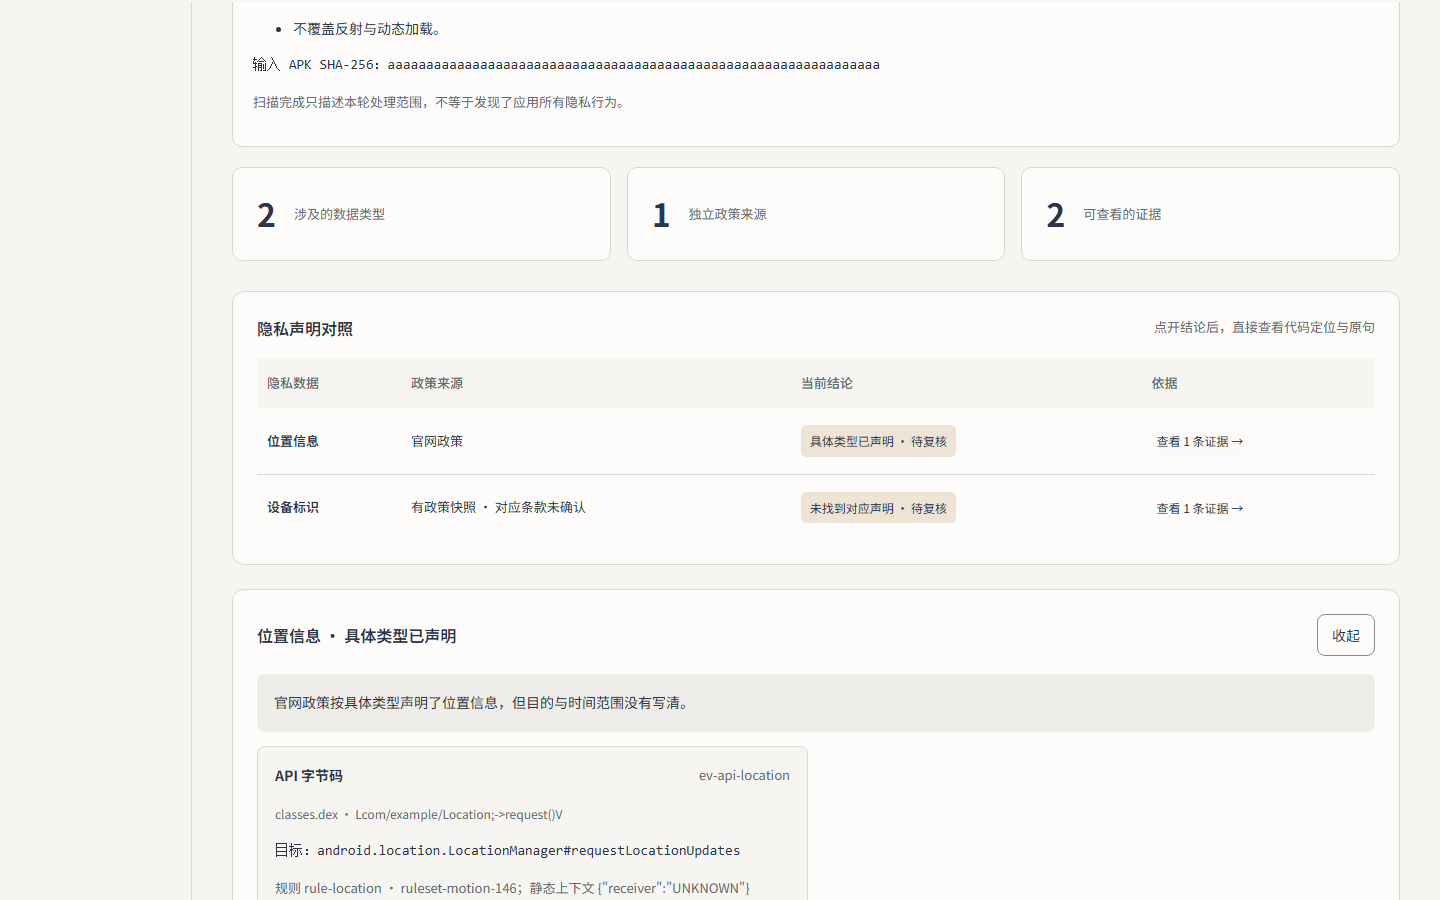
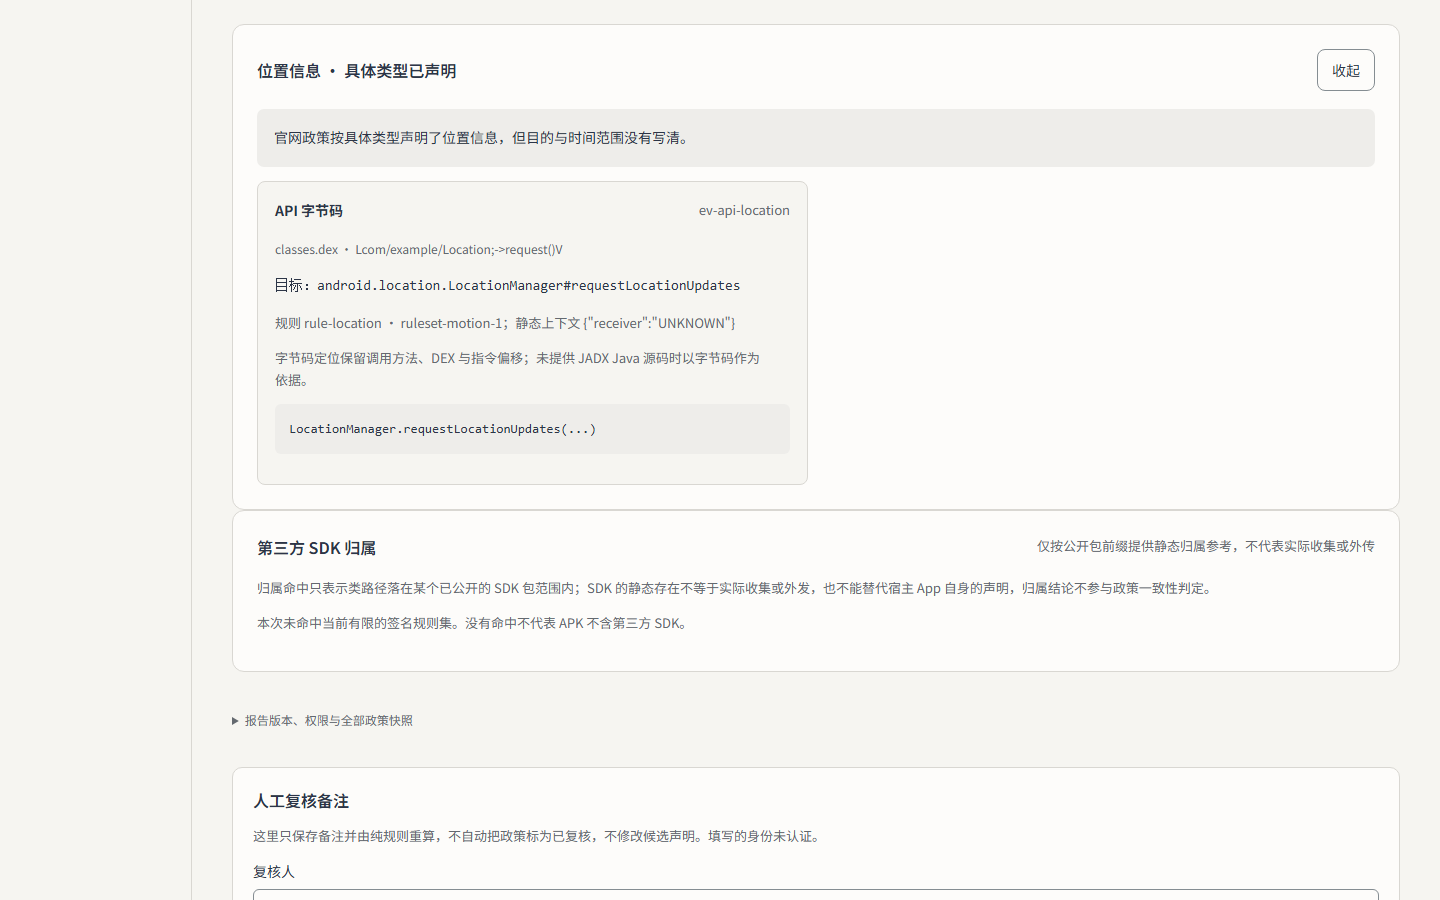
fix(web): 修正按下态被 hover 覆盖，并补齐 #146 验收证据
- hover 能力块移到各 variant 的 :active 之前：同权重下按下态必须压过 hover，
  否则危险按钮按下时文字与底色同为 --error
- .drag-active 保留 border-style: solid，维持原来的 2px 实心描边观感
- 验收补 3 项：危险按钮按下压过 hover（含守卫反证）、10 KB 长文本渲染、
  展开单元格横向裁切；时长断言改为读取 --motion-color token
- 报告页截图改为滚动稳定后取帧，before/after 可直接逐像素比较

diff --git a/apps/web/src/workbench.css b/apps/web/src/workbench.css
@@ -59,8 +59,10 @@ p { line-height: 1.7; }
 .file-glyph { display: grid; place-items: center; gap: 4px; color: var(--muted); font-size: 0.75rem; }
 .file-glyph .ui-icon { width: 32px; height: 32px; }
 /* Drop target highlight without a 1px border-width change: widening the border
-   reflowed the panel and shifted the label by a pixel every dragenter/dragleave. */
-.drag-active { border-color: var(--navy); background: var(--slate); box-shadow: inset 0 0 0 1px var(--navy); }
+   reflowed the panel and shifted the label by a pixel every dragenter/dragleave.
+   The border stays 1px solid navy and the inset shadow supplies the second pixel,
+   so the highlight keeps its previous 2px solid look. */
+.drag-active { border-color: var(--navy); border-style: solid; background: var(--slate); box-shadow: inset 0 0 0 1px var(--navy); }
 .example-entry { border-top: 1px solid var(--border); margin-top: 24px; padding-top: 24px; }
 .field-help { color: var(--muted); font-size: 0.75rem; line-height: 20px; margin: 8px 0; }
 .source-editor { padding: 24px 0; border-top: 1px solid var(--border); }
@@ -92,6 +94,16 @@ p { line-height: 1.7; }
    evidence links all fade at the same speed. The press offset stays untransitioned
    so the pressed state is visible in the same frame as the pointer event. */
 button { transition: background-color var(--motion-color) var(--ease-color), border-color var(--motion-color) var(--ease-color); }
+/* Pointer-only hover: a touch tap reports :hover, so ungated rules leave a stuck
+   highlight on the row the finger just touched. Keyboards use :focus-visible.
+   Kept before the :active rules below: hover and :active share specificity for the
+   danger role, so source order decides which one wins while a button is held. */
+@media (hover: hover) and (pointer: fine) {
+  button:hover { background: var(--surface-muted); }
+  .ui-button.primary:hover:not(:disabled) { background: var(--navy-hover); }
+  .ui-button.quiet:hover { background: var(--surface-muted); }
+  .ui-button.danger:hover:not(:disabled) { background: var(--error); }
+}
 .ui-button:active:not(:disabled) { transform: translateY(1px); }
 .ui-button.primary { color: var(--surface); background: var(--navy); border-color: var(--navy); }
 .ui-button.primary:active:not(:disabled) { background: var(--navy-hover); opacity: .88; }
@@ -99,14 +111,6 @@ button { transition: background-color var(--motion-color) var(--ease-color), bor
 .ui-button.danger { background: var(--danger); border-color: var(--danger); color: var(--on-action); }
 .ui-button.danger:active:not(:disabled) { background: var(--rose); color: var(--error); }
 .ui-button:disabled { color: var(--muted); background: var(--surface-muted); border-color: var(--surface-muted); opacity: 1; }
-/* Pointer-only hover: a touch tap reports :hover, so ungated rules leave a stuck
-   highlight on the row the finger just touched. Keyboards use :focus-visible. */
-@media (hover: hover) and (pointer: fine) {
-  button:hover { background: var(--surface-muted); }
-  .ui-button.primary:hover:not(:disabled) { background: var(--navy-hover); }
-  .ui-button.quiet:hover { background: var(--surface-muted); }
-  .ui-button.danger:hover:not(:disabled) { background: var(--error); }
-}
 .status-tag { display: inline-flex; align-items: center; flex-shrink: 0; border-radius: var(--radius); background: var(--surface-muted); color: var(--ink); padding: var(--space-4) var(--space-8); font-size: 0.75rem; line-height: 20px; font-weight: 500; }
 .status-tag.info { background: var(--slate); }
 .status-tag.wait { background: var(--notice); }

diff --git a/docs/acceptance/issue146/README.md b/docs/acceptance/issue146/README.md
@@ -10,7 +10,7 @@
 
 | 命令 | 结果 |
 | --- | --- |
-| `node scripts/verify-issue146-motion.cjs`（`PRIVACYTRACE_FRONTEND_URL=http://127.0.0.1:5196`） | PASS，17 项检查，见 [`verification.json`](verification.json) |
+| `node scripts/verify-issue146-motion.cjs`（`PRIVACYTRACE_FRONTEND_URL=http://127.0.0.1:5196`） | PASS，20 项检查（含 3 条守卫反证），见 [`verification.json`](verification.json) |
 | `pwsh -NoProfile -File scripts/check.ps1` | 见本次提交的 PR 正文；脚本内容未改动 |
 | `npm run acceptance:frontend` | 见本次提交的 PR 正文 |
 
@@ -19,29 +19,30 @@
 ## 定向检查覆盖
 
 1. 指针能力：桌面命中 `(hover: hover) and (pointer: fine)`；触摸上下文不命中，且不再出现粘滞 hover。
-2. 反馈节奏：hover 保持 150ms 颜色过渡，属性仅 `background-color, border-color`；按下位移 `translateY(1px)` 与指针事件同帧、不参与过渡。
-3. 拖拽高亮：`dragenter`/`dragleave` 前后拖拽区高度与内部标签位置不变（0px 位移），高亮靠 `inset box-shadow` 表达。
+2. 反馈节奏：hover 使用共用的 `--motion-color`（150ms）颜色过渡，属性仅 `background-color, border-color`；按下位移 `translateY(1px)` 与指针事件同帧、不参与过渡；按下态必须压过 hover（危险按钮按下为 `--rose` 底 + `--error` 字）。
+3. 拖拽高亮：`dragenter`/`dragleave` 前后拖拽区高度与内部标签位置不变（0px 位移），高亮由 1px 实心边框 + 1px `inset box-shadow` 组成。
 4. 弹窗：设置弹窗显式打开后同帧可读（`opacity: 1`，无入场动画）。
 5. 预算守卫：页面内不存在 `transition: all`、不存在超过 300ms 的活动过渡、空闲时无运行中的动画；注入 `transition: all 400ms` 后守卫必须报错。
 6. 普通模式：证据面板滚动 `behavior: 'smooth'`，面板内容在滚动完成前已可读。
 7. 减少动效模式：滚动 `behavior: 'auto'`，全局过渡为 `0s`，无运行中动画。
-8. 连续操作：两种模式下各 9 次快速开关，最终落在关闭状态，无重复面板、无重复报告请求。
-9. 低性能：CDP 6× CPU 节流下证据面板在 105–136ms 内以完全不透明呈现。
-10. 后台恢复：`visibilitychange` 隐藏/可见往返后，面板仍在且完全可读，动画未重启。
-11. 窄屏证据行：就地展开，无入场动画，首帧 `opacity: 1`，收起后不残留空单元格。
+8. 连续操作：每种模式 3 轮「开第一行 → 开第二行 → 收起」（共 9 次点击、3 次收起），最终落在关闭状态，无重复面板、无重复报告请求。
+9. 低性能：CDP 6× CPU 节流下证据面板仍以完全不透明呈现，实测耗时见 [`verification.json`](verification.json)。
+10. 后台恢复：`visibilitychange` 隐藏/可见往返后，面板仍在、内容不空、完全可读，动画未重启，报告请求数不变（DOM 级模拟，不是系统挂起）。
+11. 长文本：展开报告来源里的 10 KB 政策正文，文档不产生横向溢出，`<pre>` 在自己的块内换行而不横向滚动。
+12. 窄屏证据行：就地展开，无入场动画，首帧 `opacity: 1`；展开单元格与内部代码块都不横向裁切；收起后不残留空单元格。
 
 ## 证据文件
 
 | 文件 | 说明 |
 | --- | --- |
-| [`evidence/before-import-drag-active-1440.png`](evidence/before-import-drag-active-1440.png) / [`evidence/after-import-drag-active-1440.png`](evidence/after-import-drag-active-1440.png) | 拖拽高亮前后：视觉一致，几何变化在下方实测里 |
-| [`evidence/before-inline-evidence-390.png`](evidence/before-inline-evidence-390.png) / [`evidence/after-inline-evidence-390.png`](evidence/after-inline-evidence-390.png) | 窄屏证据行前后：静态视觉一致，差异是入场阶段是否 `opacity: 0` |
-| [`evidence/before-reports-evidence-1440.png`](evidence/before-reports-evidence-1440.png) / [`evidence/after-reports-evidence-1440.png`](evidence/after-reports-evidence-1440.png) | 「已有报告」证据面板前后：像素级一致，未新增视觉方向 |
+| [`evidence/before-import-drag-active-1440.png`](evidence/before-import-drag-active-1440.png) / [`evidence/after-import-drag-active-1440.png`](evidence/after-import-drag-active-1440.png) | 拖拽高亮前后：仍是一圈 2px 海军蓝描边；旧实现靠把边框从 1px 加宽到 2px 实现（因此会顶动内容），新实现用 1px 边框 + 1px 内阴影，所以**拖拽态内部内容比旧实现多出 1px**（实测差 16,221 px，全部落在拖拽区 304×502 区域内）。这是修掉回流本身的结果，不是新的视觉方向 |
+| [`evidence/before-inline-evidence-390.png`](evidence/before-inline-evidence-390.png) / [`evidence/after-inline-evidence-390.png`](evidence/after-inline-evidence-390.png) | 窄屏证据行前后：**像素级一致**（差 0 px），差异只在入场阶段是否先 `opacity: 0` |
+| [`evidence/before-reports-evidence-1440.png`](evidence/before-reports-evidence-1440.png) / [`evidence/after-reports-evidence-1440.png`](evidence/after-reports-evidence-1440.png) | 「已有报告」证据面板前后：**像素级一致**（差 0 px），未新增视觉方向 |
 | [`evidence/feedback-hover-1440.png`](evidence/feedback-hover-1440.png) | 指针 hover 反馈（颜色过渡中/后） |
 | [`evidence/feedback-pressed-1440.png`](evidence/feedback-pressed-1440.png) | 按下状态：位移已生效，未等待过渡 |
 | [`evidence/reports-evidence-reduced-1440.png`](evidence/reports-evidence-reduced-1440.png) | 减少动效模式下的同一证据面板，呈现与普通模式一致 |
 
-`before-*` 截图取自本分支改动前的同一工作树（未修改源码，仅清理缓存后重截）；`after-*` 与 `feedback-*`、`reduced` 取自改动后的同一实现状态。文件哈希见 [`evidence-manifest.sha256`](evidence-manifest.sha256)。
+`before-*` 截图取自同一工作树改动前的实现（源码未修改）；`after-*`、`feedback-*`、`reduced` 取自改动后的同一实现状态，报告页截图都在滚动稳定后取帧。像素差由 Pillow 对同尺寸 PNG 逐像素比较得出。文件哈希见 [`evidence-manifest.sha256`](evidence-manifest.sha256)。
 
 ## 变更前后实测对照
 
